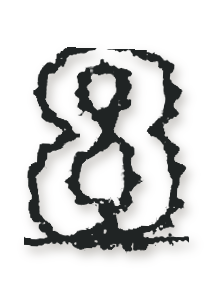
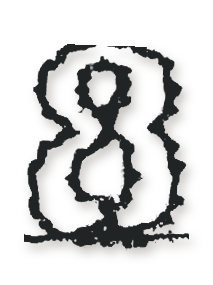
Sewn underline instead of the hover fill: real sewn dashes under each clickable word, shown on hover and on the selection, sewing in one dash at a time when something is selected; header line made from the real straight stitch in the scans; the 0 without the stray start thread; button up listed firs

diff --git a/src/styles/global.css b/src/styles/global.css
@@ -68,18 +68,18 @@ body {
   view-transition-name: topbar;
 }
 
-/* Between the header and the page: a running stitch in dark green thread (src/assets/stitch.svg, made
-   by scripts/stitch.py). Every stitch differs a little in length, tilt, height, thickness and gap, like
-   real stitching; each is lit from above with a faint twist and a soft shadow on the fabric. */
+/* Between the header and the page: a line of real machine stitching, cut from the scans of the sewn
+   lettering (src/assets/header-stitch.png: stretches of the straight stitch that runs between the letters,
+   joined into a strip that repeats seamlessly, with the same soft shadow as the lettering). */
 .topbar::after {
   content: '';
   position: absolute;
   left: 0;
   right: 0;
-  bottom: -3px;
-  height: 6px;
+  bottom: -4.5px;
+  height: 9px;
   pointer-events: none;
-  background: url('../assets/stitch.svg') left center / auto 6px repeat-x;
+  background: url('../assets/header-stitch.png') left center / auto 9px repeat-x;
 }
 
 .brand {
@@ -124,17 +124,16 @@ body {
   display: flex;
   align-items: flex-start;
   gap: 4px;
-  /* Height of the CART drawing; the word is its top 80% (the rest is room for the underline). */
-  --cart-h: 27px;
+  /* Height of the CART drawing (set in Base.astro). */
+  --cart-h: 18px;
 }
 
 .cart-count {
-  margin-top: calc(var(--cart-h) * 0.4 - var(--digit-h) / 2);
   font-size: 15px;
   line-height: 1;
   color: var(--ink);
-  /* Same height as the tab lettering (80% of --cart-h). */
-  --digit-h: calc(var(--cart-h) * 0.8);
+  /* The digits are sewn at the same size as the letters and framed the same way. */
+  --digit-h: calc(var(--cart-h) * 1.05);
 }
 
 /* Numbers written with the hand-drawn digits (see scripts/digits.ts). */
@@ -180,43 +179,73 @@ img.drawn {
   -webkit-user-drag: none;
 }
 
-.toggle {
-  display: inline-grid;
+/* ---------- sewn underline ----------
+   A row of sewn dashes under a word (Drawn.astro with `underline`). It shows while you hover the word and
+   stays on whatever is selected (current tab, chosen filter or size); when something becomes selected
+   the dashes sew in one at a time, each stitched left to right. */
+:root {
+  --dash-h: 7px;
+  --sew-gap: 2px;
 }
 
-/* A sewn word and its filled-in version, stacked; the fill shows on hover (see below). */
-.drawn-stack {
-  display: inline-grid;
+.sewn {
+  position: relative;
+  display: inline-block;
+  vertical-align: top;
 }
 
-.drawn-stack > * {
-  grid-area: 1 / 1;
+.sew-line {
+  position: absolute;
+  top: calc(100% + var(--sew-gap));
+  height: var(--dash-h);
+  display: flex;
+  flex-wrap: wrap; /* dashes that don't fit (phones) wrap out of sight */
+  justify-content: space-between;
+  overflow: hidden;
+  pointer-events: none;
 }
 
-.drawn-fill {
+.sew-line.one {
+  justify-content: center;
+}
+
+.sew-dash {
+  display: block;
+  height: var(--dash-h);
+  width: auto;
+  /* each dash image has a margin around the thread; let the thread itself set the spacing */
+  margin: 0 calc(var(--dash-h) * -0.258);
   opacity: 0;
-  transition: opacity 0.12s;
+  user-select: none;
+  -webkit-user-drag: none;
 }
 
 @media (hover: hover) {
-  :is(.drawn-btn:not(:disabled), a):hover .drawn-fill {
+  :is(.drawn-btn:not(:disabled), a):hover .sew-dash {
     opacity: 1;
   }
 }
 
-.toggle > * {
-  grid-area: 1 / 1;
+:is([aria-current='page'], [aria-pressed='true']) .sew-dash {
+  opacity: 1;
+  animation: sew 0.09s linear backwards;
+  animation-delay: calc(var(--i) * 0.09s);
 }
 
-.toggle-on,
-[aria-pressed='true'] .toggle-off,
-[aria-current='page'] .toggle-off {
-  visibility: hidden;
+@keyframes sew {
+  from {
+    clip-path: inset(0 100% 0 0);
+  }
+  to {
+    clip-path: inset(0 0 0 0);
+  }
 }
 
-[aria-pressed='true'] .toggle-on,
-[aria-current='page'] .toggle-on {
-  visibility: visible;
+@media (min-width: 700px) {
+  :root {
+    --dash-h: 10px;
+    --sew-gap: 3px;
+  }
 }
 
 /* Any drawn button: no browser styling. */
@@ -233,12 +262,12 @@ img.drawn {
   touch-action: manipulation;
 }
 
-/* Clickable drawings don't move or change color on hover: the sewn letters fill in with thread
-   (.drawn-fill above), and whatever is selected (current tab, chosen filter/size) shows its sewn underline. */
+/* Clickable drawings don't move or change color: they get the sewn underline (above). */
 
-/* Main action buttons (ADD TO CART, CHECKOUT): the drawing sits in a square black box. */
+/* Main action buttons (ADD TO CART, CHECKOUT): the drawing sits in a square black box, with room at the
+   bottom for its sewn underline. */
 .boxed-btn {
-  padding: 10px 18px;
+  padding: 10px 18px 17px;
   border: 1.5px solid var(--ink);
   background: transparent;
 }
@@ -367,7 +396,7 @@ img.drawn {
   }
 
   .cart-tab {
-    --cart-h: 42px;
+    --cart-h: 28px;
   }
 
   .tabs {

diff --git a/src/data/products.ts b/src/data/products.ts
@@ -30,32 +30,6 @@ export type Product = {
 
 export const PRODUCTS: Product[] = [
   {
-    slug: 'blue-thermal',
-    title: 'blue thermal',
-    price: 10000,
-    category: 'thermals',
-    description:
-      'a unisex thermal in 100% cotton waffle knit, designed and sewn by hand in Seattle. relaxed through the body and sleeves, and cropped at the waist. wear it as an everyday overshirt or a breathable layer.',
-    details: [
-      { label: 'material', value: '100% cotton waffle knit' },
-      { label: 'fit', value: 'unisex, relaxed, cropped at the waist' },
-      { label: 'made in', value: 'Seattle' },
-      { label: 'care', value: 'machine wash cold, hang dry' },
-    ],
-    // Total units per size (sales are counted off this automatically). Checkout refuses sizes at 0.
-    stock: { s: 0, m: 0, l: 1, xl: 0 },
-    // TODO: real measurements
-    sizeChart: {
-      headers: ['size', 'chest', 'length', 'sleeve'],
-      rows: [
-        ['S', '-', '-', '-'],
-        ['M', '-', '-', '-'],
-        ['L', '-', '-', '-'],
-        ['XL', '-', '-', '-'],
-      ],
-    },
-  },
-  {
     slug: 'green-plaid-button-up',
     title: 'green plaid button up',
     price: 12000,
@@ -70,6 +44,32 @@ export const PRODUCTS: Product[] = [
     ],
     // Total units per size (sales are counted off this automatically). Checkout refuses sizes at 0.
     stock: { s: 1, m: 1, l: 1, xl: 1 },
+    // TODO: real measurements
+    sizeChart: {
+      headers: ['size', 'chest', 'length', 'sleeve'],
+      rows: [
+        ['S', '-', '-', '-'],
+        ['M', '-', '-', '-'],
+        ['L', '-', '-', '-'],
+        ['XL', '-', '-', '-'],
+      ],
+    },
+  },
+  {
+    slug: 'blue-thermal',
+    title: 'blue thermal',
+    price: 10000,
+    category: 'thermals',
+    description:
+      'a unisex thermal in 100% cotton waffle knit, designed and sewn by hand in Seattle. relaxed through the body and sleeves, and cropped at the waist. wear it as an everyday overshirt or a breathable layer.',
+    details: [
+      { label: 'material', value: '100% cotton waffle knit' },
+      { label: 'fit', value: 'unisex, relaxed, cropped at the waist' },
+      { label: 'made in', value: 'Seattle' },
+      { label: 'care', value: 'machine wash cold, hang dry' },
+    ],
+    // Total units per size (sales are counted off this automatically). Checkout refuses sizes at 0.
+    stock: { s: 0, m: 0, l: 1, xl: 0 },
     // TODO: real measurements
     sizeChart: {
       headers: ['size', 'chest', 'length', 'sleeve'],

diff --git a/README.md b/README.md
@@ -29,17 +29,18 @@ Scanning tips: dark pen on white paper, scan or photograph in even light, remove
 
 ### The checklist
 
-Things with an `-on` version need two drawings: normal, and selected (circled, filled in, highlighted, your call). **Draw both on the same size canvas** so nothing jumps when they swap.
+Every clickable word gets a sewn underline from `dash-1`, `dash-2` and `dash-3` (three of your sewn dashes), repeated under it as many times as fit. It shows on hover and on whatever is selected, and sews in one dash at a time when something gets selected. So each word is just one drawing.
 
 | What | Files | Notes |
 |---|---|---|
 | Logo | `logo` ✓ done | center of the header; its two hearts are the browser-tab and home-screen icon (`public/favicon.ico`, `favicon-96.png`, `icon-*.png`, `apple-touch-icon.png`) |
 | Digits | `digit-0` … `digit-9` ✓ done | cart count + quantities |
-| Tabs | `tab-shop`, `tab-about`, `tab-cart` ✓ done | selected one gets the drawn underline (`-on` files are generated) |
+| Tabs | `tab-shop`, `tab-about`, `tab-cart` ✓ done | selected one gets the sewn underline |
 | Shop filters | `filter-all`, `filter-thermals` ✓ done. To add another, list it in `CATEGORIES` in `src/data/products.ts` and draw `filter-<name>` | selected one gets the underline |
 | Sizes | `size-s`, `size-m`, `size-l`, `size-xl` ✓ done | selected one gets the underline |
 | Buttons | `btn-checkout`, `btn-add-to-cart` (ADD+TO+CART), `btn-back` (← BACK), `btn-keep-shopping` (SHOP →) ✓ done | wide |
 | Small buttons | `btn-plus`, `btn-minus`, `btn-remove` (REMOVE) ✓ done | used in the cart |
+| Underline | `dash-1`, `dash-2`, `dash-3` ✓ done | the sewn dashes under clickable words |
 
 ## Products
 
